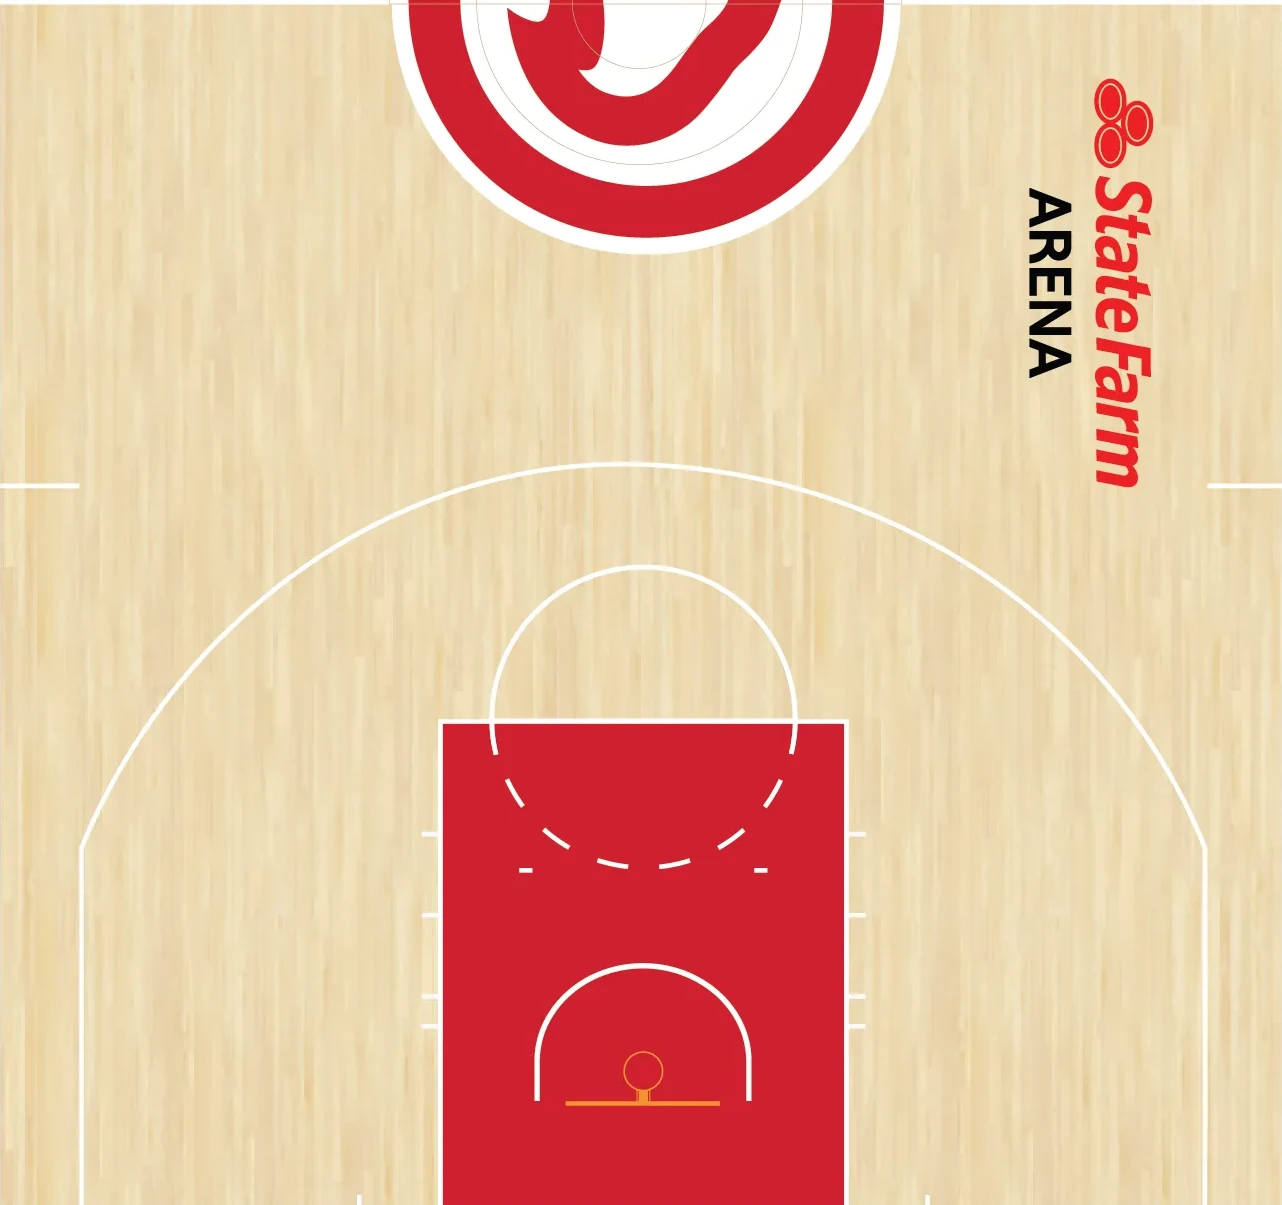
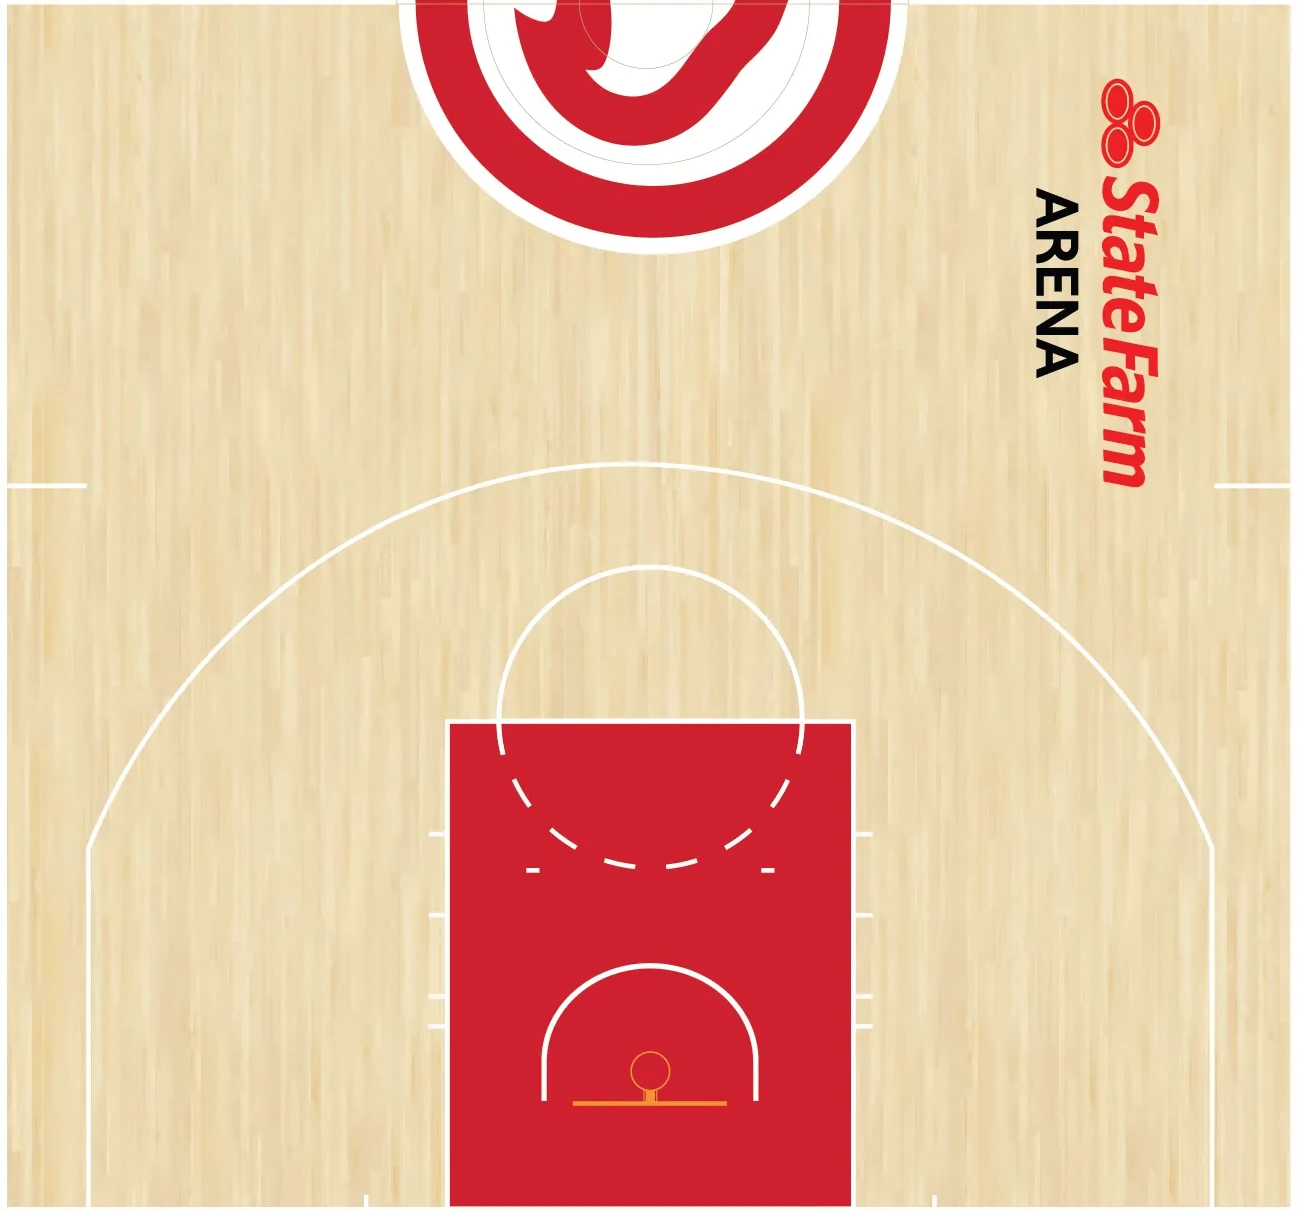
Real floors: Celtics, Nets, Hornets, Bulls, Cavaliers, Mavericks, Nuggets; court prep finds the floor by its boundary line
Claude-Session: https://claude.ai/code/session_01MwZ67aepJJhUZJuSBZ7izX

diff --git a/sw.js b/sw.js
@@ -1,5 +1,5 @@
 /* Offline support: always try the network first, fall back to the cache. */
-var CACHE = 'nba-eras-v127';
+var CACHE = 'nba-eras-v128';
 var SHELL = [
   './',
   'index.html',

diff --git a/tools/prep-court.py b/tools/prep-court.py
@@ -10,11 +10,20 @@ src, team = sys.argv[1], sys.argv[2]
 side = sys.argv[3] if len(sys.argv) > 3 else 'right'
 im = Image.open(src).convert('RGB')
 a = np.array(im).astype(int)
-m = (a[..., 0] > 150) & (a[..., 1] > 110) & (a[..., 2] < 190) & (a[..., 0] - a[..., 2] > 35)
-cols, rows = m.sum(0), m.sum(1)
-xs = np.where(cols > rows.max() * 0.3)[0]
-ys = np.where(rows > cols.max() * 0.3)[0]
-x0, x1, y0, y1 = xs.min(), xs.max(), ys.min(), ys.max()
+w = (a.min(2) > 225)
+rows, cols = w.sum(1), w.sum(0)
+ry = np.where(rows > a.shape[1] * 0.5)[0]
+cx = np.where(cols > a.shape[0] * 0.5)[0]
+if len(ry) >= 2 and len(cx) >= 2:
+    y0, y1, x0, x1 = ry.min(), ry.max(), cx.min(), cx.max()
+else:
+    m = (a[..., 0] > 150) & (a[..., 1] > 110) & (a[..., 2] < 190) & (a[..., 0] - a[..., 2] > 35)
+    cols, rows = m.sum(0), m.sum(1)
+    xs = np.where(cols > rows.max() * 0.3)[0]
+    ys = np.where(rows > cols.max() * 0.3)[0]
+    x0, x1, y0, y1 = xs.min(), xs.max(), ys.min(), ys.max()
+if len(sys.argv) > 4:
+    x0, y0, x1, y1 = [int(v) for v in sys.argv[4].split(',')]
 mid = (x0 + x1) // 2
 if side == 'right':
     h = im.crop((mid, y0, x1 + 1, y1 + 1)).transpose(Image.ROTATE_270)
